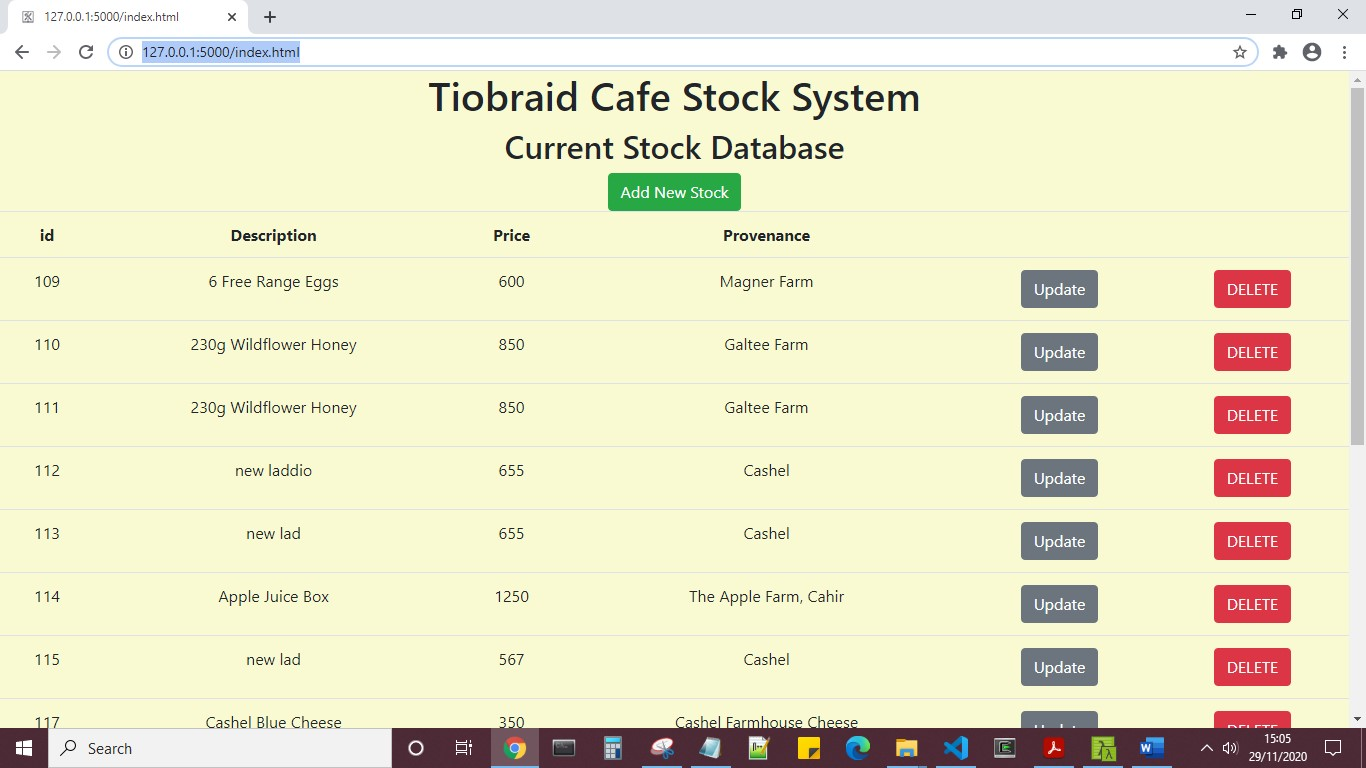
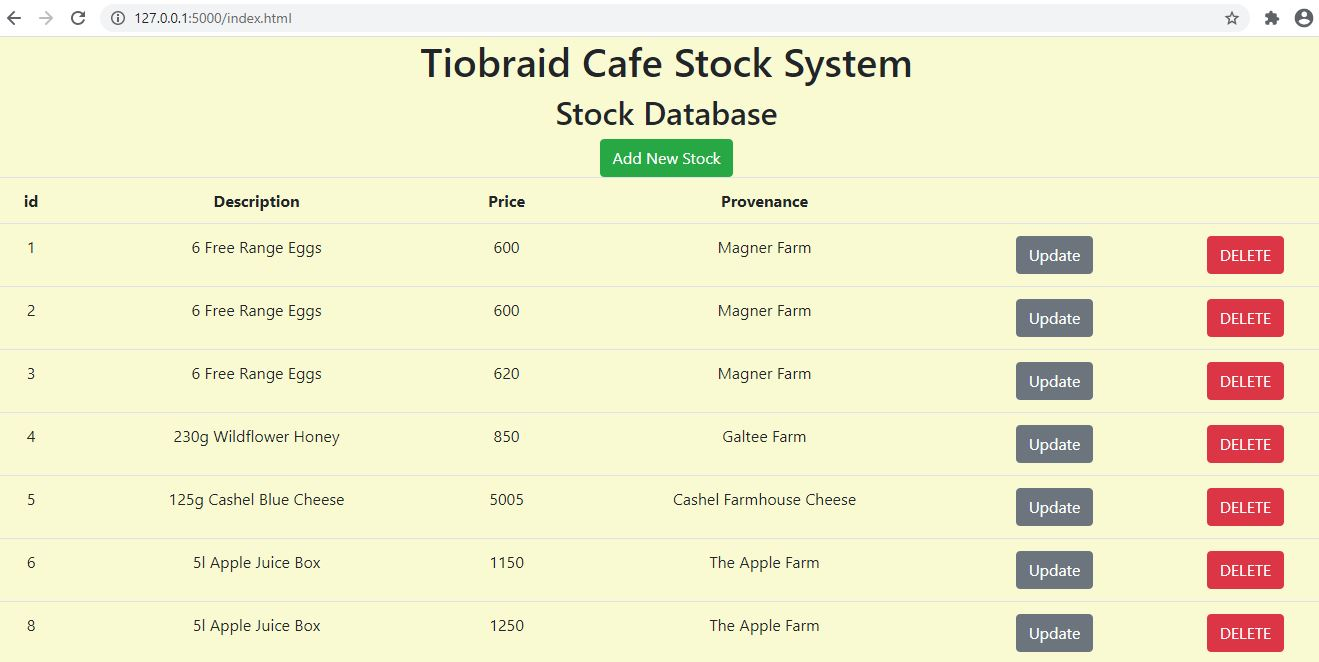
fix update and create

diff --git a/staticpages/index.html b/staticpages/index.html
@@ -1,4 +1,4 @@
-<!--Code adapated from https://github.com/andrewbeattycourseware/dataRepresenation2020-->
+<!--Code adapted from https://github.com/andrewbeattycourseware/dataRepresenation2020-->
 <html>
     <head>
             <script src="https://ajax.googleapis.com/ajax/libs/jquery/3.4.1/jquery.min.js"></script>
@@ -9,7 +9,7 @@
                 <!--code for a favicon-->
                 <link rel="shortcut icon" href="foodie.ico">              
                 
-                <body style=background-color:rgb(250,250,210)></body><!--html code for background colour-->
+                <body style=background-color:rgb(250,250,210)></body><!--html code for nice background colour-->
                 <!--html code for centre-ing --><style>
                     h1 {text-align: center;}
                     div {text-align: center;}
@@ -23,6 +23,7 @@
             
             <h2>Create New Stock Item</h2>
             <table id="createUpdateForm">
+<!-- The punctuation has to be the same everywhere do not change the case of words in just one spot-->
                 <tr>
                     <td>id</td>
                     <td><input type="text" name="id" id="idInput"></td>
@@ -30,21 +31,23 @@
  
                 <tr>
                     <td>Description</td>
-                    <td><input type="text" name="Description"></td>
+                    <td><input type="text" name="description"></td>
                 </tr>
                 <tr> <!-- Form Validation - A number must be entered in this field-->
                     <td>Price</td>
-                    <td><input type="number" name="Price"></td>
+                    <td><input type="number" name="price"></td>
                 </tr>
                 <tr>    
                     <td>Provenance</td>
-                    <td><input type="text" name="Provenance"></td>
+                    <td><input type="text" name="provenance"></td>
                 </tr>
                 <tr>
                     <td>
-                        <button id="create-button" onclick="doCreate()"<button type="button" class="btn btn-success">Create</button>
+                        <button id="create-button" onclick="doCreate()"<button type="button" class="btn btn-success">Add New Stock</button>
                         <button id="refresh-button" onclick="history.go(0)"<button type="button" class="btn btn-danger">Go Back</button>
-                        <button id="update-button" onclick="doUpdate()">update</button></td>
+                        <button id="update-button" onclick="doUpdate()"<button type="button" class="btn btn-secondary">update</button>
+                        
+                    </td>
                     </td>                      
                   </tr>
             </table>
@@ -105,7 +108,7 @@
 
 
                     form.querySelector('input[name="id"]').value = ''
-                    form.querySelector('input[name="id"]').disabled = false
+                    form.querySelector('input[name="id"]').disabled =false
 
                     form.querySelector('input[name="description"]').value = ''
                     form.querySelector('input[name="price"]').value = ''
@@ -114,7 +117,7 @@
 
             function doCreate(){
                 console.log("in doCreate")
-                item= getItemFromForm()
+                item = getItemFromForm()
                 console.log(item)
                 $.ajax({
                     url:"/stock",
@@ -125,7 +128,7 @@
                     success:function(result){
                         console.log(result) 
                         addStockToTable(item)
-                        showDisplay()
+                        //showDisplay()
                         clearForm()
 
                     },
